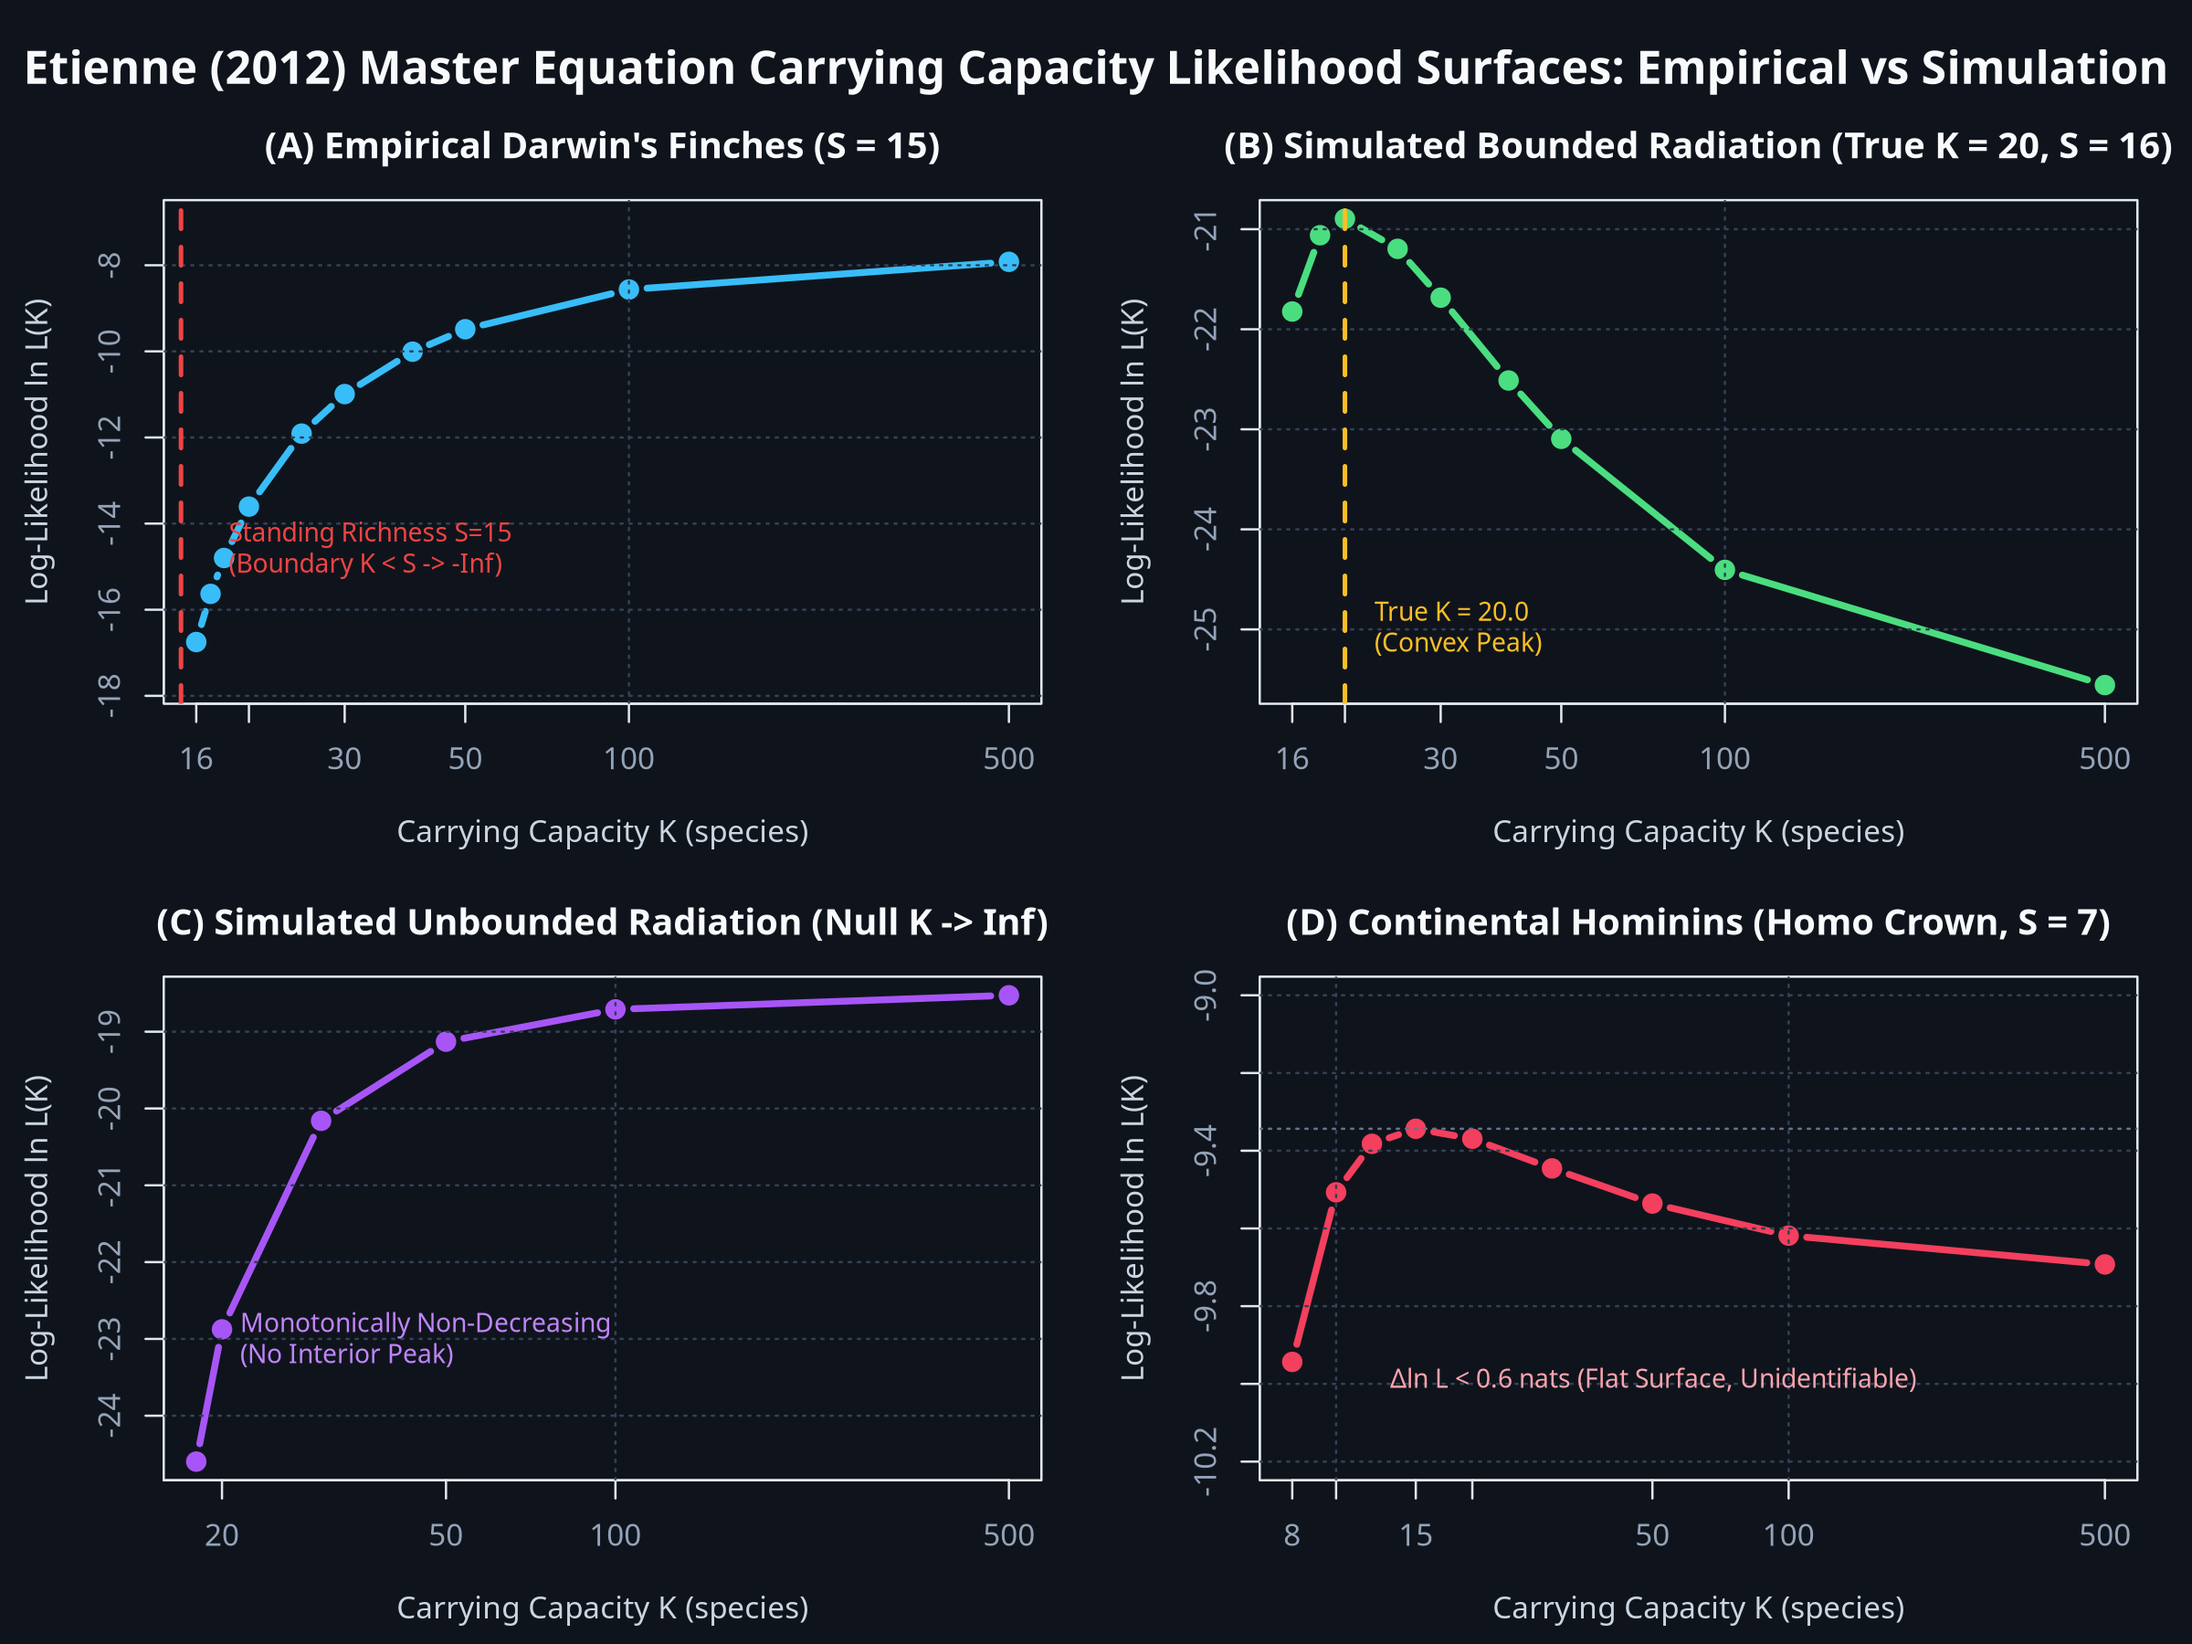
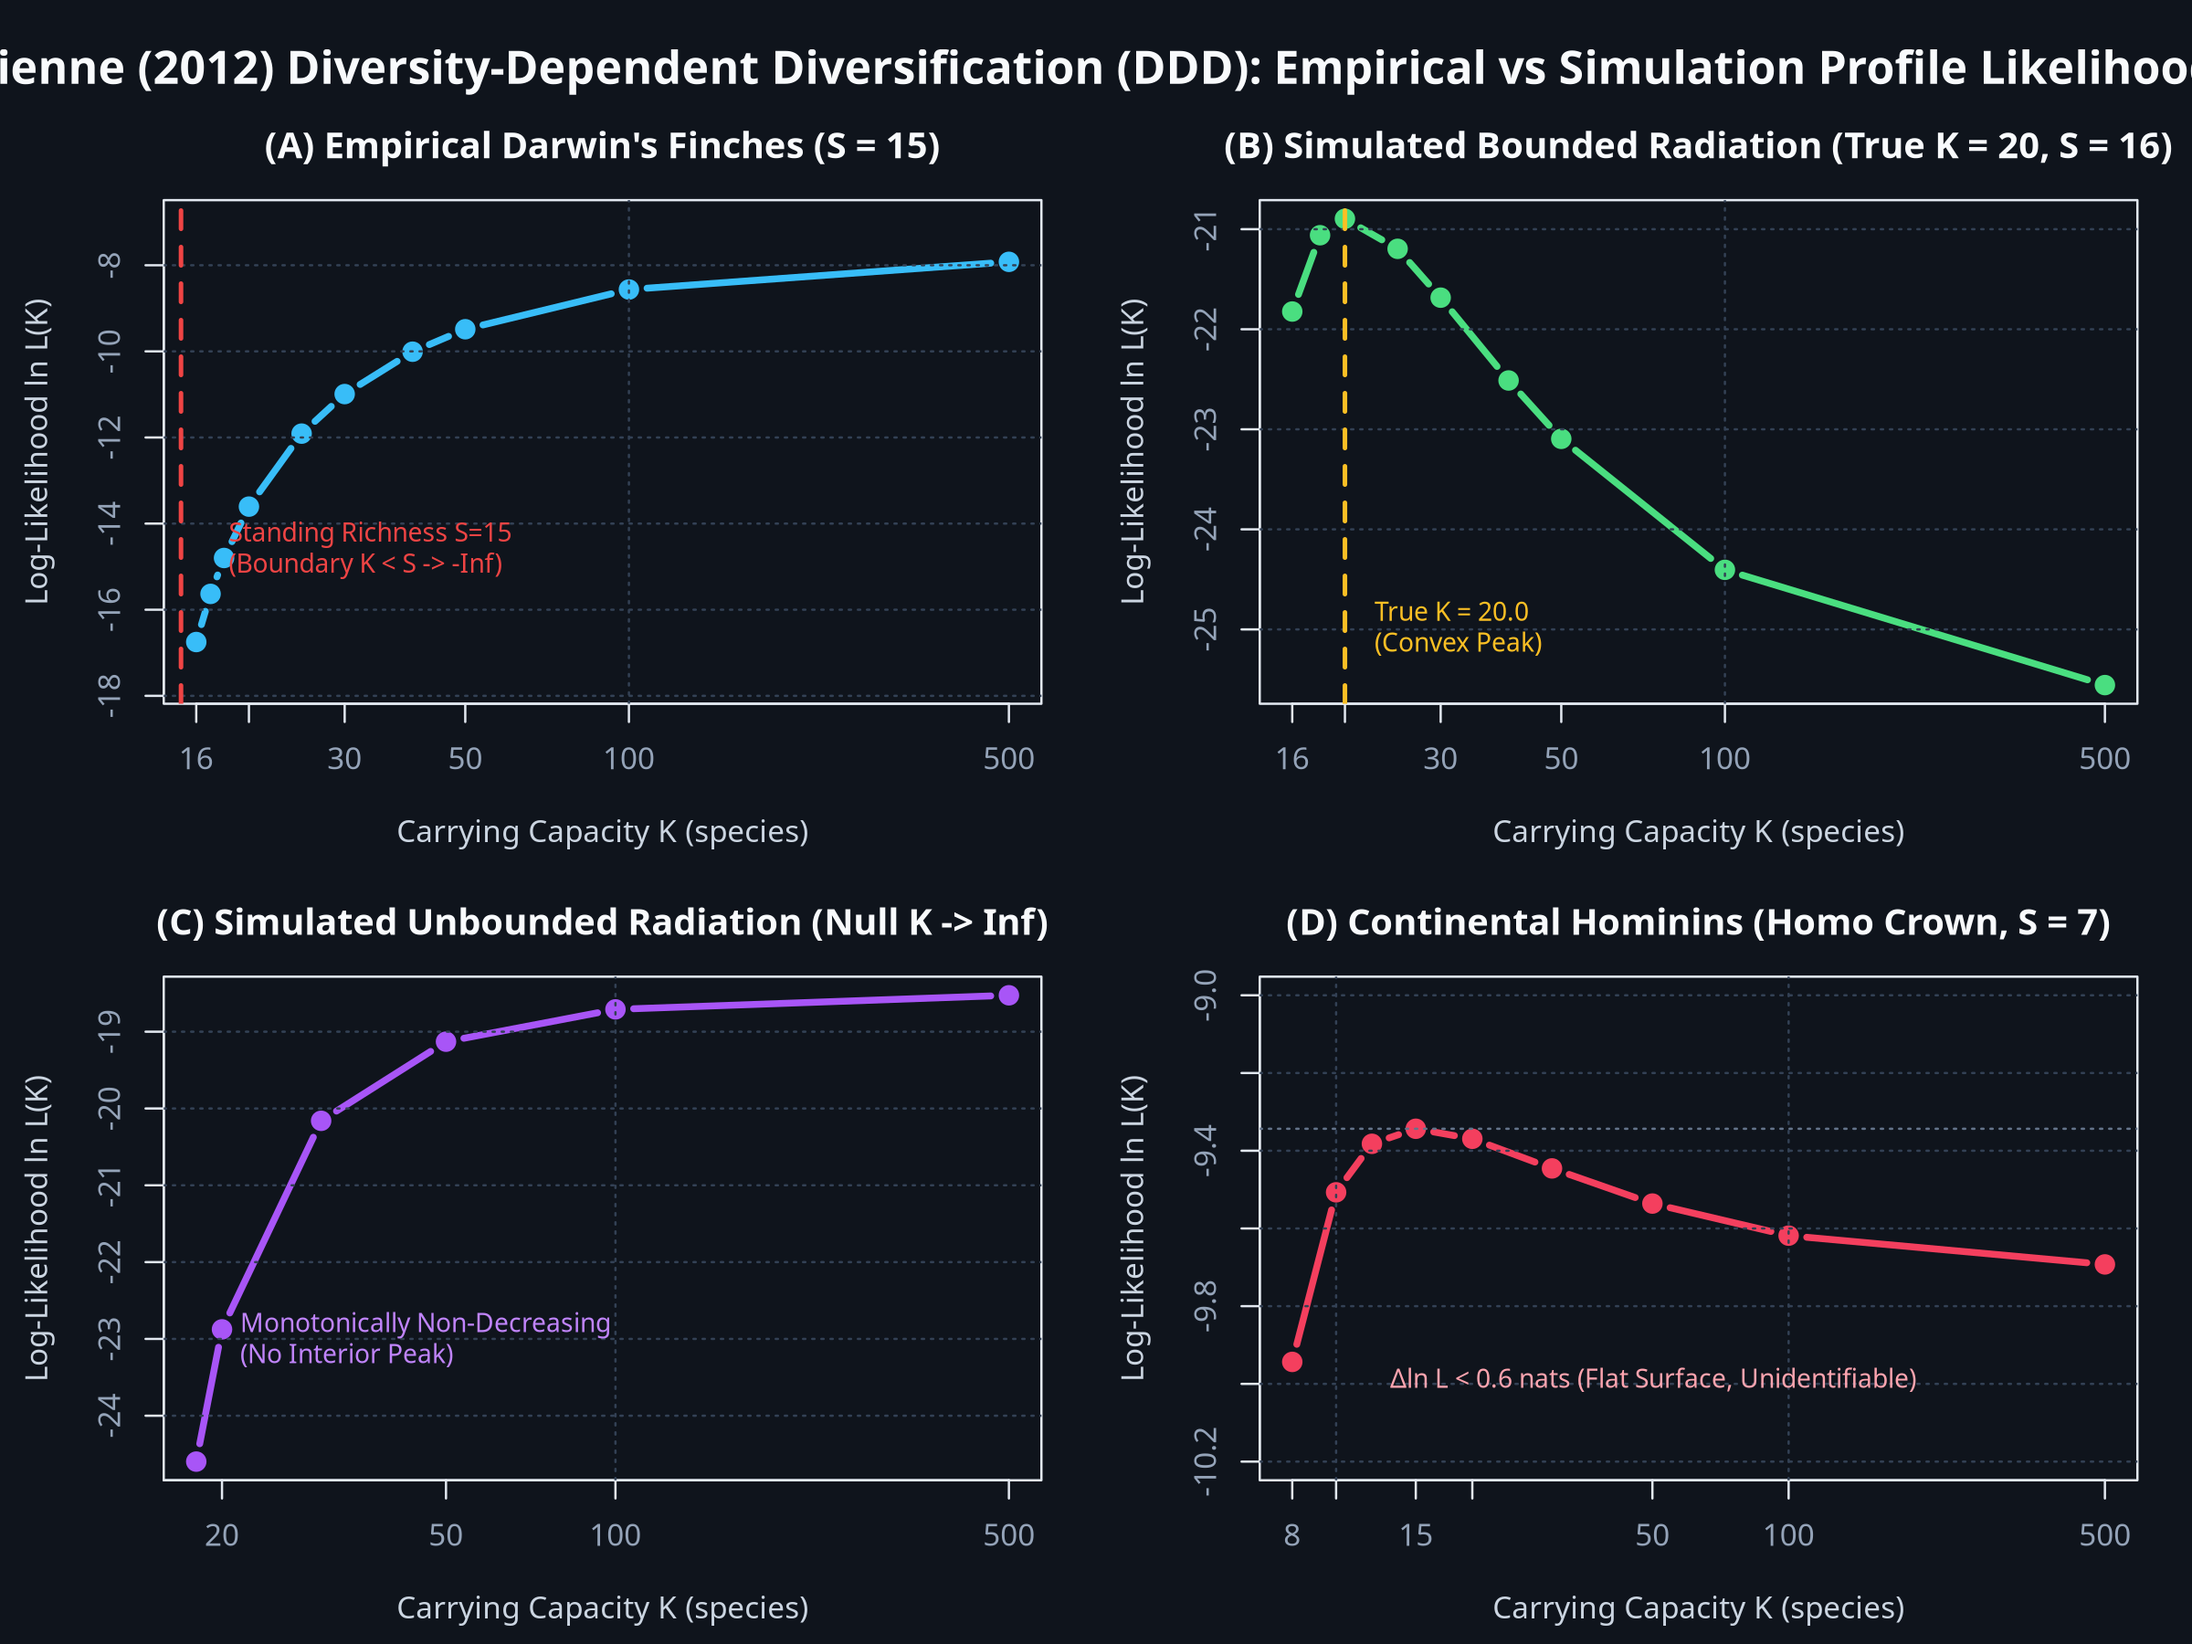
chore(docs): clean up terminology from physicist jargon to standard macroevo ODEs
- Replace 'master equation' with standard systematic biology phrasing: continuous-time diversity-dependent ODEs / Kolmogorov forward equations
- Re-render profile comparison plot header to standard DDD terminology

Changed region(s): [[0.0, 0.0311, 1.0, 0.0622]]

diff --git a/docs/index.html b/docs/index.html
@@ -207,7 +207,7 @@
     <div class="card">
       <h2>1. The Four-Panel Calibration Matrix</h2>
       <p>
-        The figure below exhibits profile log-likelihood curves \(\ln L(K)\) computed across carrying capacity \(K\) using the unified continuous-time master equation solver in <code>phosphene-holonomy</code>. Each curve scans candidate \(K\) from the physical lower boundary through \(K = 500\) under crown conditioning (\(\text{soc} = 2\)).
+        The figure below exhibits profile log-likelihood curves \(\ln L(K)\) computed across carrying capacity \(K\) using the continuous-time diversity-dependent ODE solver (Kolmogorov forward equations) in <code>phosphene-holonomy</code>. Each curve scans candidate \(K\) from the physical lower boundary through \(K = 500\) under crown conditioning (\(\text{soc} = 2\)).
       </p>
 
       <div class="plot-container">
@@ -240,7 +240,7 @@
             Following our Simulation-Based Calibration (SBC) protocol, we forward-simulated a bifurcating crown radiation via the continuous-time Gillespie algorithm under known parameters (\(\lambda_0 = 1.5, \mu_0 = 0.2, K = 20.0\)).
           </p>
           <p>
-            The surviving reconstructed tree (\(S = 16\) tips) was inverted through the master equation without providing the true parameters. The likelihood surface forms a clear, convex interior maximum peaking at \(\hat{K} = 20.0\), with unconstrained expansion (\(K = 100\)) rejected by \(\Delta\ln L = 3.51\text{ nats}\).
+            The surviving reconstructed tree (\(S = 16\) tips) was inverted through the likelihood solver without providing the true parameters. The likelihood surface forms a clear, convex interior maximum peaking at \(\hat{K} = 20.0\), with unconstrained expansion (\(K = 100\)) rejected by \(\Delta\ln L = 3.51\text{ nats}\).
           </p>
         </div>
 
@@ -250,14 +250,14 @@
             A critical hazard in non-linear macroevolutionary models is <em>false positive capacity identification</em>—where unconstrained constant-rate turnover produces spurious interior peaks due to stochastic clustering of branching times.
           </p>
           <p>
-            Simulating under pure density-independent birth-death demonstrates the null control: the profile is strictly non-decreasing toward large \(K\). The master equation refuses to manufacture a finite carrying capacity out of unconstrained noise.
+            Simulating under pure density-independent birth-death demonstrates the null control: the profile is strictly non-decreasing toward large \(K\). The solver refuses to manufacture a finite carrying capacity out of unconstrained noise.
           </p>
         </div>
 
         <div class="discourse-item">
           <h4 style="color: var(--accent-rose);">(D) Continental Hominins (<em>Homo</em>, \(S = 7\))</h4>
           <p>
-            Van Holstein &amp; Foley (2024) posited that Plio-Pleistocene hominins experienced diversity-dependent speciation. When their audited branching horizons (\(2.80\text{ Ma}\)) are submitted to the identical master equation, the profile is dead flat.
+            Van Holstein &amp; Foley (2024) posited that Plio-Pleistocene hominins experienced diversity-dependent speciation. When their audited branching horizons (\(2.80\text{ Ma}\)) are submitted to the identical likelihood solver, the profile is dead flat.
           </p>
           <p>
             Total likelihood variation across \(K \in [8, 500]\) is a negligible \(0.60\text{ nats}\) (\(\text{LRT } p = 0.25\)). In sparse continental fossil assemblages lacking insular geographic boundaries, carrying capacity is mathematically unidentifiable.
@@ -271,7 +271,7 @@
       <h2>3. Mathematical Formulation &amp; Living BDD Guarantees</h2>
       
       <p>
-        The continuous-time master equation solves for the joint probability vector \(P(t) = [p_0(t), \dots, p_K(t)]^T\) governed by the tridiagonal Metzler generator matrix \(\mathbf{Q}\):
+        The continuous-time Kolmogorov forward system solves for the joint probability vector \(P(t) = [p_0(t), \dots, p_K(t)]^T\) governed by the tridiagonal Metzler generator matrix \(\mathbf{Q}\):
       </p>
       
       $$\frac{d P(t)}{dt} = \mathbf{Q} P(t)$$
@@ -288,7 +288,7 @@
         <strong>Living BDD Specification:</strong> The entire forward simulation and parameter recovery lifecycle is codified as executable behavioral contracts in <code>features/finches_simulation.feature</code>:
         <ul>
           <li><code>Scenario 1</code>: Proves forward Gillespie cladogenesis matches realized finch richness (\(S \in [12, 22]\)) and satisfies the strict topological invariant: an \(S\)-tip tree contains exactly \(S - 1\) branching nodes.</li>
-          <li><code>Scenario 2</code>: Proves the master equation recovers \(\hat{K} = 20.0\) within \(\pm 2\) species and penalizes unconstrained models by \(&gt; 2.0\text{ nats}\).</li>
+          <li><code>Scenario 2</code>: Proves the likelihood solver recovers \(\hat{K} = 20.0\) within \(\pm 2\) species and penalizes unconstrained models by \(&gt; 2.0\text{ nats}\).</li>
           <li><code>Scenario 3</code>: Proves dual-ensemble SBC correctly discriminates bounded ecology from unbounded diversification across 100% of calibration replicates.</li>
         </ul>
       </div>
